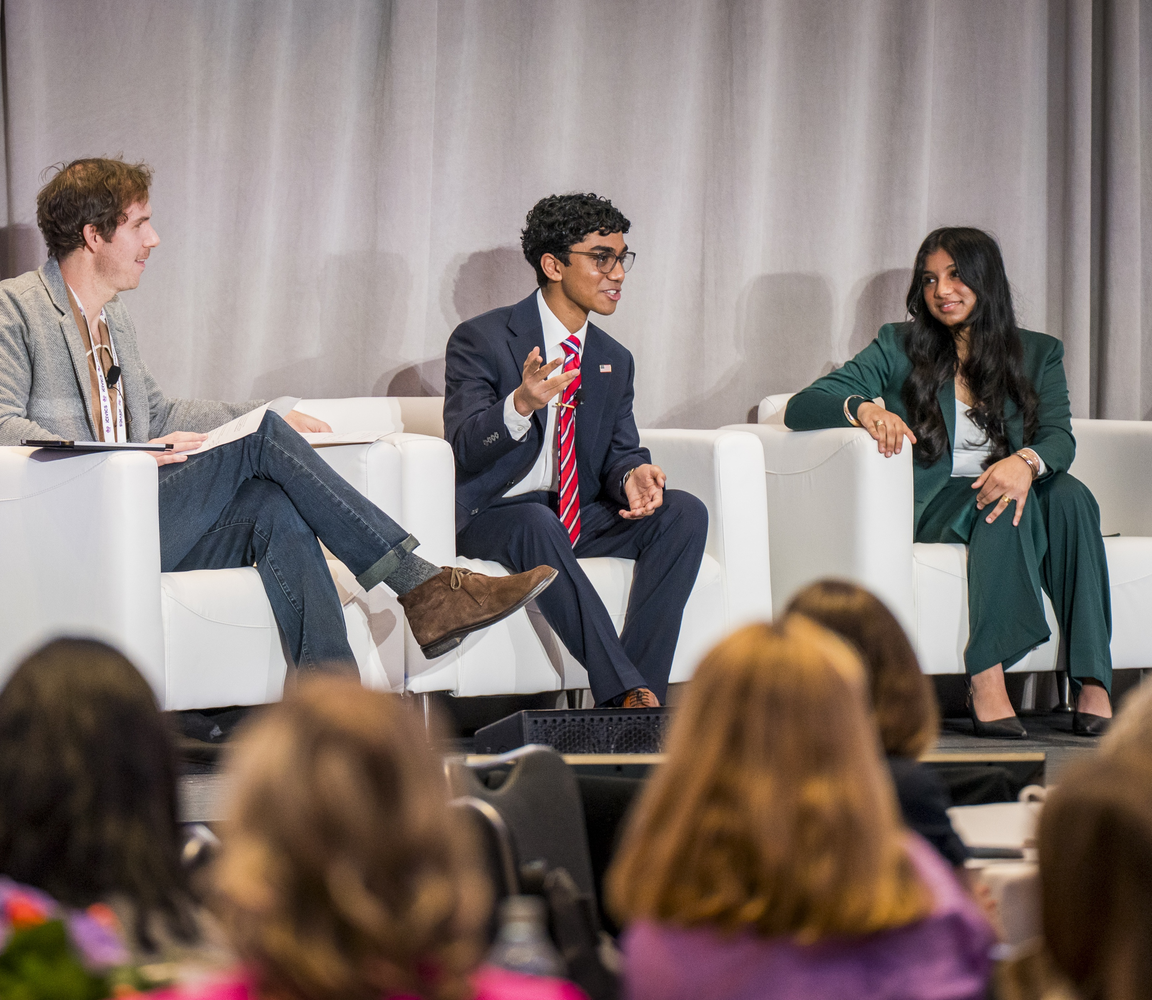
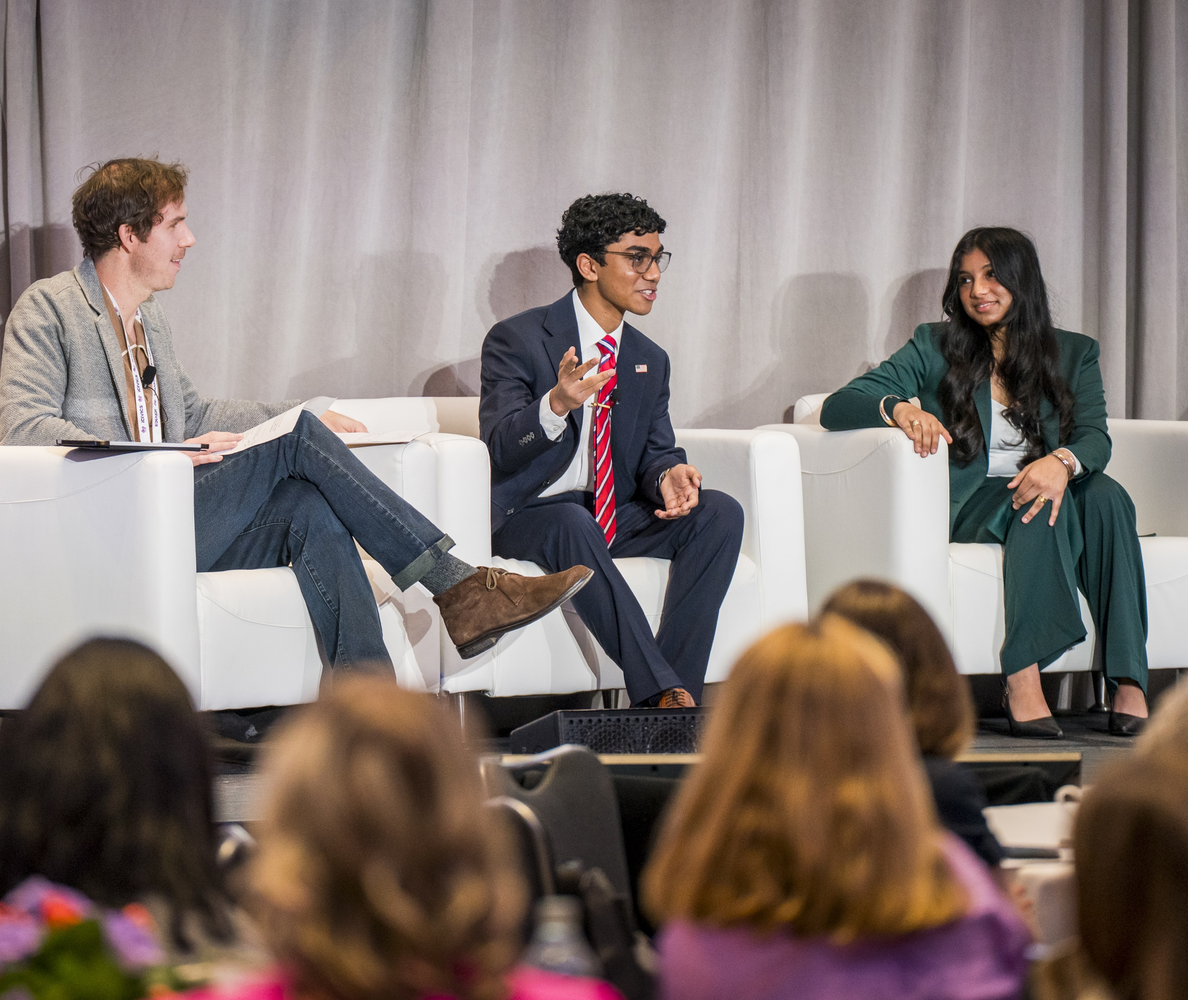
Polish motion, scroll effects, and content updates.
Fix double-flash page transitions and add mobile menu fades, subtle panel crop drift, hero/about scroll effects, updated copy, and new debate photo asset.

diff --git a/src/data/site.ts b/src/data/site.ts
@@ -12,8 +12,8 @@ export const SITE_DATA: SiteData = {
     heading: "I’m Ben Kurian, a junior at Olentangy Liberty High School in Columbus, Ohio.",
     paragraphs: [
       "I’m interested in how healthcare decisions actually get made: who gets access, what gets prioritized, and how structures shape patient outcomes. That’s led me to work on a few different projects in that space.",
-      "I co-founded SPAN, a student-led, nonpartisan healthcare advocacy organization now active in over fifteen states. I also help run Project MedBridge, a Central Ohio initiative rerouting 30,000+ pounds of surplus medical equipment globally.",
-      "A lot of my work takes different forms—documentary filmmaking, public speaking, and organizing—usually around the same core questions. I’ve been lucky to have some of that work recognized: airtime on national TV, recognition from Ohio's Governor and U.S. Senators, and invitations to speak at conferences from Dallas to Philadelphia.",
+      "I co-founded SPAN, a student-led, nonpartisan healthcare advocacy organization now active in over fifteen states. I also lead Project MedBridge, a Central Ohio initiative rerouting 30,000+ pounds of surplus medical equipment globally.",
+      "A lot of my work takes different forms—documentary filmmaking, public speaking, and organizing—usually around the same core questions. I’ve been lucky to have some of that work recognized: airtime on national TV, recognition from Ohio’s Governor and U.S. Senators, and invitations to speak at conferences from Dallas to Philadelphia.",
       "Outside of that, I’m a competitive debater and a multi-instrumentalist. I bike everywhere, collect vinyl, and am always hunting down new Oreo flavors <i>(current favorite: Chocolate Ganache Thins)</i>.",
       "I’m planning to study public health, especially the policy side of how care is delivered and who it reaches.",
     ],
@@ -41,7 +41,7 @@ export const SITE_DATA: SiteData = {
             meta: "Co-Founder & Executive Director",
             content: `
             <p>SPAN (est. 2025) is an organization I co-founded that empowers high school, undergraduate, and medical students to engage directly with state and federal legislation affecting patients. What started as a response to gaps in youth representation in healthcare policy has grown into a national team of over 40 members working across 15+ states and the U.S. Congress.</p>
-            <p>We've worked with over 1,500 legislators through letters, cold calls, and testimony: influencing 52 healthcare bills, including stalling Texas House Bill 5294 and helping introduce legislation to mandate AEDs in Alaskan K–12 schools. SPAN has also partnered with Unite America, Stanford's Deliberative Democracy Lab, and Harvard's Health Fluency Project, and reached over 250,000 people across social media.</p>
+            <p>We’ve worked with over 1,500 legislators through letters, cold calls, and testimony: influencing 52 healthcare bills, including stalling Texas House Bill 5294 and helping introduce legislation to mandate AEDs in Alaskan K–12 schools. SPAN has also partnered with Unite America, Stanford’s Deliberative Democracy Lab, and Harvard’s Health Fluency Project, and reached over 250,000 people across social media.</p>
             <p><a href='https://spanationwide.org'>spanationwide.org</a></p>
             `
           }
@@ -53,11 +53,11 @@ export const SITE_DATA: SiteData = {
           desc: "Collecting surplus medical supplies from Columbus clinics to facilitate access to care abroad.",
           bgImage: "/images/medbridge.jpeg",
           detail: {
-            label: "Central Ohio Initiative · Founder",
+            label: "Central Ohio Initiative",
             title: "Project MedBridge",
-            meta: "Founder & Team Lead",
+            meta: "Co-Founder & Team Lead",
             content: `
-                <p>Project MedBridge (est. 2026) is Central Ohio's first student-led medical supply redistribution network, which I co-founded to address a glaring gap in our city. U.S. hospitals discard an estimated 2 million pounds of unused, unexpired supplies every year, and Central Ohio has no mechanism to redirect any of it. Project MedBridge collects surplus from local hospital systems and ships it to facilities in 135+ countries. Recently, Project MedBridge secured $7,500 in grant funding from the Carnegie Corporation.</p>
+                <p>Project MedBridge (est. 2026) is Central Ohio’s first student-led medical supply redistribution network, which I co-founded to address a glaring gap in our city. U.S. hospitals discard an estimated 2 million pounds of unused, unexpired supplies every year, and Central Ohio has no mechanism to redirect any of it. Project MedBridge collects surplus from local hospital systems and ships it to facilities in 40+ countries. Recently, Project MedBridge secured $7,500 in grant funding from the Carnegie Corporation.</p>
     <p><a href='https://projectmedbridge.org'>projectmedbridge.org</a></p>
            `
           }
@@ -66,14 +66,14 @@ export const SITE_DATA: SiteData = {
           id: "docs",
           label: "Award-Winning Journalism",
           title: "Documentary Filmmaking",
-          desc: "Four consecutive wins in C-SPAN's StudentCam competition.",
+          desc: "Four consecutive wins in C-SPAN’s StudentCam competition.",
           bgImage: "/images/documentary.jpeg",
           detail: {
             label: "Award-Winning Journalism",
             title: "Documentary Filmmaking",
             meta: "Director, producer, and composer",
             content: `
-            <p>I've directed, produced, and scored films on healthcare, education, and public policy since 2022, earning national recognition in the largest student documentary contest in the country.</p>
+            <p>I’ve directed, produced, and scored films on healthcare, education, and public policy since 2022, earning national recognition in the largest student documentary contest in the country.</p>
             <p>I placed in the <a href='http://studentcam.org'>StudentCam documentary competition</a> four consecutive years, competing against roughly 4,000 entries annually. My films have aired on C-SPAN to a viewership of over 50 million and received more than 30,000 cumulative public votes.</p>
             <ul>
               <li><span class='yr'>2026</span> First Prize + Fan Favorite, <a href='https://youtu.be/OJTwR_BkjLY?si=a7UoUbbLySrIHX5s'><em>A Right to Health</em></a></li>
@@ -81,7 +81,7 @@ export const SITE_DATA: SiteData = {
               <li><span class='yr'>2024</span> Second Prize + Fan Favorite, <a href='https://youtu.be/ju_pT2KA4v0?si=0aXuxKS17ee5N0-H'><em>Who Do I Want to Be?</em></a></li>
               <li><span class='yr'>2023</span> First Prize + Fan Favorite, <a href='https://youtu.be/-rcz3fX9laQ?si=kv-Q0aieXBFVnGdG'><em>Losing a Generation</em></a></li>
             </ul>
-            <p>My work has involved interviews with senior stakeholders, including public health officials, faculty from Harvard and Yale, and former U.S. Department of Transportation leadership. I've been formally recognized by <a href='https://www.studentcam.org/2023-first-prize-middle-school-losing-a-generation-by-ben-kurian/'>Governor DeWine, U.S. Senator Sherrod Brown</a>, and others, and have been invited to speak at national conferences in Dallas and Philadelphia.</p>
+            <p>My work has involved interviews with senior stakeholders, including public health officials, faculty from Harvard and Yale, and former U.S. Department of Transportation leadership. I’ve been formally recognized by <a href='https://www.studentcam.org/2023-first-prize-middle-school-losing-a-generation-by-ben-kurian/'>Governor DeWine, U.S. Senator Sherrod Brown</a>, and others, and have been invited to speak at national conferences in Dallas and Philadelphia.</p>
             <h4>Featured: <em>A Right to Health</em> (2026)</h4>
             <div class='work-embed'><iframe src="https://www.youtube.com/embed/OJTwR_BkjLY?si=9UzZoAUCy47qDBty" title="YouTube video player" frameborder="0" allow="accelerometer; autoplay; clipboard-write; encrypted-media; gyroscope; picture-in-picture; web-share" referrerpolicy="strict-origin-when-cross-origin" allowfullscreen></iframe></div>
             `
@@ -105,7 +105,7 @@ export const SITE_DATA: SiteData = {
     //         label: "Youth Advisory Council · Member",
     //         title: "Columbus Medical Association Foundation",
     //         meta: "Dec 2025 – Present",
-    //         content: "<p>Selected as one of 15 members on the Columbus Medical Association Foundation's Youth Advisory Council. The council assesses community health needs and allocates $25,000 in annual grant funding to youth-focused organizations across Central Ohio.</p><p>In the current cycle, reviewing and funding programs addressing mental health, substance use, bullying, social inequities, and basic needs — including support for AthletesToAid and We Amplify Voices (WAV).</p>"
+    //         content: "<p>Selected as one of 15 members on the Columbus Medical Association Foundation’s Youth Advisory Council. The council assesses community health needs and allocates $25,000 in annual grant funding to youth-focused organizations across Central Ohio.</p><p>In the current cycle, reviewing and funding programs addressing mental health, substance use, bullying, social inequities, and basic needs — including support for AthletesToAid and We Amplify Voices (WAV).</p>"
     //       }
     //     },
     //     {
@@ -118,7 +118,7 @@ export const SITE_DATA: SiteData = {
     //         label: "Student Advisory Council · Liberty Representative",
     //         title: "SELAC — Student Experience Leadership Advisory Council",
     //         meta: "Oct 2025 – Present · Olentangy Local School District",
-    //         content: "<p>Selected to represent Olentangy Liberty High School on OLSD's SELAC program. Collaborating with district administrators and peers to enhance student life, shape district-wide initiatives, and advise on policies improving equity, engagement, and wellbeing.</p><p>Participating in regular meetings with district leaders to identify key challenges and design actionable solutions that strengthen the student experience across Olentangy Schools.</p>"
+    //         content: "<p>Selected to represent Olentangy Liberty High School on OLSD’s SELAC program. Collaborating with district administrators and peers to enhance student life, shape district-wide initiatives, and advise on policies improving equity, engagement, and wellbeing.</p><p>Participating in regular meetings with district leaders to identify key challenges and design actionable solutions that strengthen the student experience across Olentangy Schools.</p>"
     //       }
     //     },
     //     {
@@ -156,6 +156,11 @@ export const SITE_DATA: SiteData = {
             <figure>
             <img src="/images/osdastates.jpeg" loading="lazy"/>
             <figcaption>OSDA State Finals, March 2026</figcaption>
+            </figure>
+              <p>Additionally, I taught Lincoln-Douglas, Public Forum, and Congressional debate to 30+ middle and high school students through Olentangy’s Summer Enrichment Experience (SEE). I prepared materials for daily lessons and exercises, led instruction throughout the program, and helped organize a debate tournament for participating students.</p>
+            <figure>
+            <img src="/images/see.jpg" loading="lazy"/>
+            <figcaption>Me with tournament champion Gavin at SEE, June 2026</figcaption>
             </figure>
               <h4>Awards</h4>
             <ul>
@@ -217,7 +222,7 @@ export const SITE_DATA: SiteData = {
             title: "TEDxOlentangy Liberty Youth",
             meta: "Speaker · Steering Committee Member",
             content: `
-            <p>In March 2025, I delivered a TEDx talk titled <em>"5 Lessons to Transform a Community"</em>, featured on TEDx's YouTube channel with over 40 million subscribers. The talk shared personal lessons in leadership from reviving my church's Vacation Bible School</p>
+            <p>In March 2025, I delivered a TEDx talk titled <em>"5 Lessons to Transform a Community"</em>, featured on TEDx’s YouTube channel with over 40 million subscribers. The talk shared personal lessons in leadership from reviving my church’s Vacation Bible School</p>
       
             <p>As part of my involvement, I am now part of the steering committee for the <a href='https://www.ted.com/tedx/events/65993'>upcoming TEDxOlentangy Liberty Youth event</a> in April 2026.</p>
 
@@ -306,8 +311,8 @@ export const SITE_DATA: SiteData = {
             title: "Civic Learning Week National Forum",
             meta: "Plenary Speaker",
             content: `
-              <p>My sophomore year, I was invited by the Civic Learning Week Steering Committee for an all-expenses-paid presentation at the National Forum in Philadelphia, co-sponsored by the Bezos Family Foundation, Microsoft, Stanford's Hoover Institution, and leading civic organizations.</p>
-              <p>I joined three other high school students from across the U.S. on a plenary panel moderated by PBS host <a href='https://www.bensheehan.com'>Ben Sheehan</a>, discussing the future of civic learning ahead of America's 250th anniversary. The panel was titled <em>"Student Perspectives on Liberty and Learning."</em> After the panel, <a href='https://www.civics101podcast.org/civics-101-episodes/clw2'>NHPR's <em>Civics 101</em></a> interviewed several of us about what civic education looks like in our classrooms.</p>
+              <p>My sophomore year, I was invited by the Civic Learning Week Steering Committee for an all-expenses-paid presentation at the National Forum in Philadelphia, co-sponsored by the Bezos Family Foundation, Microsoft, Stanford’s Hoover Institution, and leading civic organizations.</p>
+              <p>I joined three other high school students from across the U.S. on a plenary panel moderated by PBS host <a href='https://www.bensheehan.com'>Ben Sheehan</a>, discussing the future of civic learning ahead of America’s 250th anniversary. The panel was titled <em>"Student Perspectives on Liberty and Learning."</em> After the panel, <a href='https://www.civics101podcast.org/civics-101-episodes/clw2'>NHPR’s <em>Civics 101</em></a> interviewed several of us about what civic education looks like in our classrooms.</p>
               <h4>Student Perspectives on Liberty and Learning</h4>
               <div class='work-embed'><iframe src="https://www.youtube.com/embed/YAno089cApU?si=E4qiW1nx8GApaeSd&start=705" frameborder="0" allow="accelerometer; autoplay; clipboard-write; encrypted-media; gyroscope; picture-in-picture; web-share" referrerpolicy="strict-origin-when-cross-origin" allowfullscreen></iframe></div>
             `,
@@ -333,7 +338,7 @@ export const SITE_DATA: SiteData = {
             title: "IBTTA Technology Summit",
             meta: "Speaker",
             content: `
-            <p>Invited to present to 1,100+ attendees at the International Bridge, Tunnel and Turnpike Association's Technology Summit in Dallas, following recognition for <a href='https://youtu.be/h1dHoLHaSDc?si=385VILxfsBtdd1_K'><em>The Road to Vision Zero</em></a>, my documentary on AI-powered road safety.</p>
+            <p>Invited to present to 1,100+ attendees at the International Bridge, Tunnel and Turnpike Association’s Technology Summit in Dallas, following recognition for <a href='https://youtu.be/h1dHoLHaSDc?si=385VILxfsBtdd1_K'><em>The Road to Vision Zero</em></a>, my documentary on AI-powered road safety.</p>
             <h4>Presentation</h4>
               <div class='work-embed'><iframe src="https://www.youtube.com/embed/axoGrMKPKs0?si=5S7v1kCm2K_hrvHT&amp;start=404" frameborder="0" allow="accelerometer; autoplay; clipboard-write; encrypted-media; gyroscope; picture-in-picture; web-share" referrerpolicy="strict-origin-when-cross-origin" allowfullscreen></iframe></div>
             `
@@ -386,7 +391,7 @@ export const SITE_DATA: SiteData = {
                   { meta: 'IBTTA', title: 'Young Voices, Big Impact: Ben Kurian and the Road to Vision Zero', detail: 'April 2025', url: 'https://www.ibtta.org/insights/ben-kurian-and-road-vision-zero' },
                   { meta: 'ABC6 / WSYX', title: 'Local student wins national documentary competition', detail: 'March 2025', url: 'https://abc6onyourside.com/news/local/local-student-wins-national-documentary-competition-olentangy-liberty-ben-kurian-ai-road-highway-safety-cspan-studentcam' },
                   { meta: '10TV', title: 'Central Ohio student wins national award for raising awareness of career education', detail: 'April 2024', url: 'https://www.10tv.com/video/news/local/central-ohio-student-wins-national-award-for-raising-awareness-of-career-education/530-d2156794-9c8b-40df-a21e-e45a40a19686' },
-                  { meta: 'Spectrum News 1', title: "Powell student wins prize in C-SPAN's StudentCam competition", detail: 'April 2024', url: 'https://spectrumnews1.com/oh/columbus/news/2024/04/12/powell-student-wins-prize-c-span-competition-' },
+                  { meta: 'Spectrum News 1', title: "Powell student wins prize in C-SPAN’s StudentCam competition", detail: 'April 2024', url: 'https://spectrumnews1.com/oh/columbus/news/2024/04/12/powell-student-wins-prize-c-span-competition-' },
                   { meta: 'Delaware Gazette', title: 'Kurian places second in C-SPAN contest', detail: 'April 2024', url: 'https://www.delgazette.com/2024/04/10/kurian-places-second-in-c-span-contest/' },
                   { meta: 'NBC4 WCMH-TV', title: 'Olentangy Liberty middle schooler honored by C-SPAN', detail: 'April 2024', url: 'https://www.nbc4i.com/news/local-news/tell-me-something-good/olentangy-liberty-middle-schooler-honored-by-c-span/' },
                   { meta: 'Spectrum News 1', title: 'Middle school student creates documentary on opioids', detail: 'April 2023', url: 'https://spectrumnews1.com/oh/columbus/in-focus/2023/04/28/middle-school-student-creates-documentary-on-opioids' },

diff --git a/src/styles/global.css b/src/styles/global.css
@@ -28,8 +28,13 @@ body {
   -moz-osx-font-smoothing: grayscale;
 }
 
+html.page-entering body {
+  opacity: 0;
+}
+
 html.page-enter body {
-  animation: page-enter var(--page-transition-duration) var(--page-transition-ease) both;
+  opacity: 1;
+  transition: opacity var(--page-transition-duration) var(--page-transition-ease);
 }
 
 html.page-leaving body {
@@ -37,16 +42,9 @@ html.page-leaving body {
   transition: opacity var(--page-transition-duration) var(--page-transition-ease);
 }
 
-@keyframes page-enter {
-  from { opacity: 0; }
-  to { opacity: 1; }
-}
-
 @media (prefers-reduced-motion: reduce) {
-  html.page-enter body {
-    animation: none;
-  }
-
+  html.page-entering body,
+  html.page-enter body,
   html.page-leaving body {
     opacity: 1;
     transition: none;
@@ -140,6 +138,9 @@ a {
   width: 100%;
   height: 1px;
   background: var(--fg);
+  transition:
+    transform var(--menu-transition-duration) var(--page-transition-ease),
+    opacity calc(var(--menu-transition-duration) * 0.6) ease;
 }
 
 .hamburger.active span:nth-child(1) { transform: translateY(6px) rotate(45deg); }
@@ -158,12 +159,20 @@ a {
   padding: var(--page-pad);
   gap: 8px;
   opacity: 0;
+  visibility: hidden;
   pointer-events: none;
+  transition:
+    opacity var(--menu-transition-duration) var(--page-transition-ease),
+    visibility 0s linear var(--menu-transition-duration);
 }
 
 .mobile-nav.open {
   opacity: 1;
+  visibility: visible;
   pointer-events: auto;
+  transition:
+    opacity var(--menu-transition-duration) var(--page-transition-ease),
+    visibility 0s;
 }
 
 .mobile-nav a {
@@ -173,6 +182,36 @@ a {
   text-decoration: none;
   line-height: 1.35;
   letter-spacing: -0.01em;
+  opacity: 0;
+  transform: translateY(6px);
+  transition:
+    opacity var(--menu-transition-duration) var(--page-transition-ease),
+    transform var(--menu-transition-duration) var(--page-transition-ease);
+}
+
+.mobile-nav.open a {
+  opacity: 1;
+  transform: translateY(0);
+}
+
+.mobile-nav.open a:nth-child(1) { transition-delay: 0.04s; }
+.mobile-nav.open a:nth-child(2) { transition-delay: 0.07s; }
+.mobile-nav.open a:nth-child(3) { transition-delay: 0.1s; }
+.mobile-nav.open a:nth-child(4) { transition-delay: 0.13s; }
+.mobile-nav.open a:nth-child(5) { transition-delay: 0.16s; }
+.mobile-nav.open a:nth-child(6) { transition-delay: 0.19s; }
+
+@media (prefers-reduced-motion: reduce) {
+  .hamburger span,
+  .mobile-nav,
+  .mobile-nav a {
+    transition: none;
+    transform: none;
+  }
+
+  .mobile-nav a {
+    opacity: 1;
+  }
 }
 
 /* ── HERO ── */
@@ -182,7 +221,7 @@ a {
 
 .hero-inner {
   display: grid;
-  grid-template-columns: 1fr 1fr;
+  grid-template-columns: 1fr 1.35fr;
   gap: clamp(32px, 6vw, 80px);
   align-items: end;
 }
@@ -217,19 +256,27 @@ a {
 
 .hero-figure {
   margin: 0;
+  overflow: hidden;
+  position: relative;
+  aspect-ratio: 1.43 / 1;
 }
 
 .hero-figure img {
   display: block;
   width: 100%;
-  height: auto;
+  height: 120%;
+  object-fit: cover;
+  position: absolute;
+  top: 0;
+  left: 0;
+  will-change: transform;
 }
 
 /* ── ABOUT ── */
 .about-inner {
   padding-block: 56px 72px;
   display: grid;
-  grid-template-columns: minmax(0, 1.15fr) minmax(var(--about-photo-min), var(--about-photo-max));
+  grid-template-columns: minmax(var(--about-photo-min), var(--about-photo-max)) minmax(0, 1.15fr);
   gap: clamp(40px, 5vw, 72px);
   align-items: stretch;
 }
@@ -273,6 +320,7 @@ a {
   height: 100%;
   object-fit: cover;
   object-position: top center;
+  will-change: transform;
 }
 
 /* ── SECTIONS ── */
@@ -353,9 +401,43 @@ a {
   width: 100%;
   height: 100%;
   object-fit: cover;
-  object-position: center;
+  object-position: center 50%;
   transform: scale(1);
   transition: transform var(--panel-hover-duration) var(--panel-hover-ease);
+}
+
+@supports (animation-timeline: view()) {
+  @media (prefers-reduced-motion: no-preference) {
+    .panel-media img {
+      animation: panel-drift linear both;
+      animation-timeline: view();
+      animation-range: entry 0% exit 100%;
+    }
+
+    .panel-grid[data-layout="hero-side"] .panel:first-child .panel-media img {
+      animation-name: panel-drift-hero;
+    }
+  }
+}
+
+@keyframes panel-drift {
+  from {
+    object-position: center var(--panel-drift-from);
+  }
+
+  to {
+    object-position: center var(--panel-drift-to);
+  }
+}
+
+@keyframes panel-drift-hero {
+  from {
+    object-position: center var(--panel-drift-hero-from);
+  }
+
+  to {
+    object-position: center var(--panel-drift-hero-to);
+  }
 }
 
 @media (hover: hover) and (prefers-reduced-motion: no-preference) {
@@ -648,6 +730,10 @@ a {
   }
 
   .about-photo {
+    display: none;
+  }
+
+  .panel-meta {
     display: none;
   }
 

diff --git a/public/assets/data/visionzero.js b/public/assets/data/visionzero.js
@@ -4,11 +4,11 @@ var watch = `
             `;
 var summary = `
             <h1>Executive Summary</h1>
-            <p class="lead">Every year, nearly 43,000 lives are lost to traffic crashes in the United States, with millions more injured. This crisis isn't just a headline—it’s deeply personal, impacting families, friends, and communities. Achieving Vision Zero, the goal of eliminating all roadway fatalities, demands bold action and transformative change.</p>
-            <p class="lead">For decades, road safety has relied on a reactive approach, addressing danger only after lives have been lost. The Safe System framework, endorsed by NHTSA, shifts the focus to proactive strategies. By emphasizing safer people, safer roads, safer vehicles, safer speeds, and post-crash care, it acknowledges that human error is inevitable but doesn't have to result in fatalities.</p>     
+            <p class="lead">Every year, nearly 43,000 lives are lost to traffic crashes in the United States, with millions more injured. This crisis isn’t just a headline—it’s deeply personal, impacting families, friends, and communities. Achieving Vision Zero, the goal of eliminating all roadway fatalities, demands bold action and transformative change.</p>
+            <p class="lead">For decades, road safety has relied on a reactive approach, addressing danger only after lives have been lost. The Safe System framework, endorsed by NHTSA, shifts the focus to proactive strategies. By emphasizing safer people, safer roads, safer vehicles, safer speeds, and post-crash care, it acknowledges that human error is inevitable but doesn’t have to result in fatalities.</p>     
             <p class="lead">Artificial intelligence builds on this framework, offering unparalleled opportunities to analyze data and act swiftly. AI can monitor driving behaviors, identify hazardous conditions, and optimize traffic flow in real time. It enhances vehicle safety through advanced systems like auto-braking and lane-assist and supports faster emergency response through predictive analytics. This technology doesn’t replace human responsibility—it complements it, providing tools to prevent crashes and save lives.</p>
             <p class="lead">However, significant challenges remain. AI systems rely on high-quality, unbiased data, yet issues like incomplete data and privacy concerns undermine their potential. Legal uncertainties and public skepticism, particularly around autonomous vehicles, pose barriers to adoption. Addressing these challenges requires collaboration across governments, industry, and communities, alongside measures like balanced datasets, transparent AI processes, and stronger privacy protections.</p>
-            <p class="lead">Achieving Vision Zero also demands a cultural shift. Road safety isn't just about technology—it’s about changing behaviors and fostering accountability among all road users. Together, the integration of AI into the Safe System framework and a commitment to responsible driving decisions will create a safer environment for everyone.</p>
+            <p class="lead">Achieving Vision Zero also demands a cultural shift. Road safety isn’t just about technology—it’s about changing behaviors and fostering accountability among all road users. Together, the integration of AI into the Safe System framework and a commitment to responsible driving decisions will create a safer environment for everyone.</p>
             <p class="lead">We stand at a crossroads. The cost of inaction isn’t just measured in dollars, but in human lives. The choices made today—embracing innovation, supporting policy change, and valuing safety—will determine whether Vision Zero becomes a reality. It starts and ends with us.</p>
             `;
 var workscited = `

diff --git a/src/styles/tokens.css b/src/styles/tokens.css
@@ -34,10 +34,15 @@
   --panel-hover-scale: 1.02;
   --panel-hover-duration: 0.9s;
   --panel-hover-ease: cubic-bezier(0.33, 1, 0.68, 1);
+  --panel-drift-from: 46%;
+  --panel-drift-to: 54%;
+  --panel-drift-hero-from: 42%;
+  --panel-drift-hero-to: 58%;
 
   --scroll-duration: 1.8s;
   --scroll-duration-max: 2.4s;
 
-  --page-transition-duration: 0.38s;
-  --page-transition-ease: cubic-bezier(0.33, 1, 0.68, 1);
+  --page-transition-duration: 0.3s;
+  --page-transition-ease: cubic-bezier(0.4, 0, 0.2, 1);
+  --menu-transition-duration: 0.32s;
 }

diff --git a/public/a-right-to-health.html b/public/a-right-to-health.html
@@ -70,7 +70,7 @@
 
 
           <p class="lead mt-3">
-            Submitted for C-SPAN's 2026 StudentCam documentary competition.
+            Submitted for C-SPAN’s 2026 StudentCam documentary competition.
           </p>
 
           <a href="#watch" class="btn btn-dark btn-lg mt-3">

diff --git a/public/assets/data/navbar.js b/public/assets/data/navbar.js
@@ -30,7 +30,7 @@ var navbar = `
     </div>
 `;
 
-// Update the navbar container's innerHTML
+// Update the navbar container’s innerHTML
 var navbarContainer = document.getElementById("navbarContainer");
 navbarContainer.innerHTML = navbar;
 
